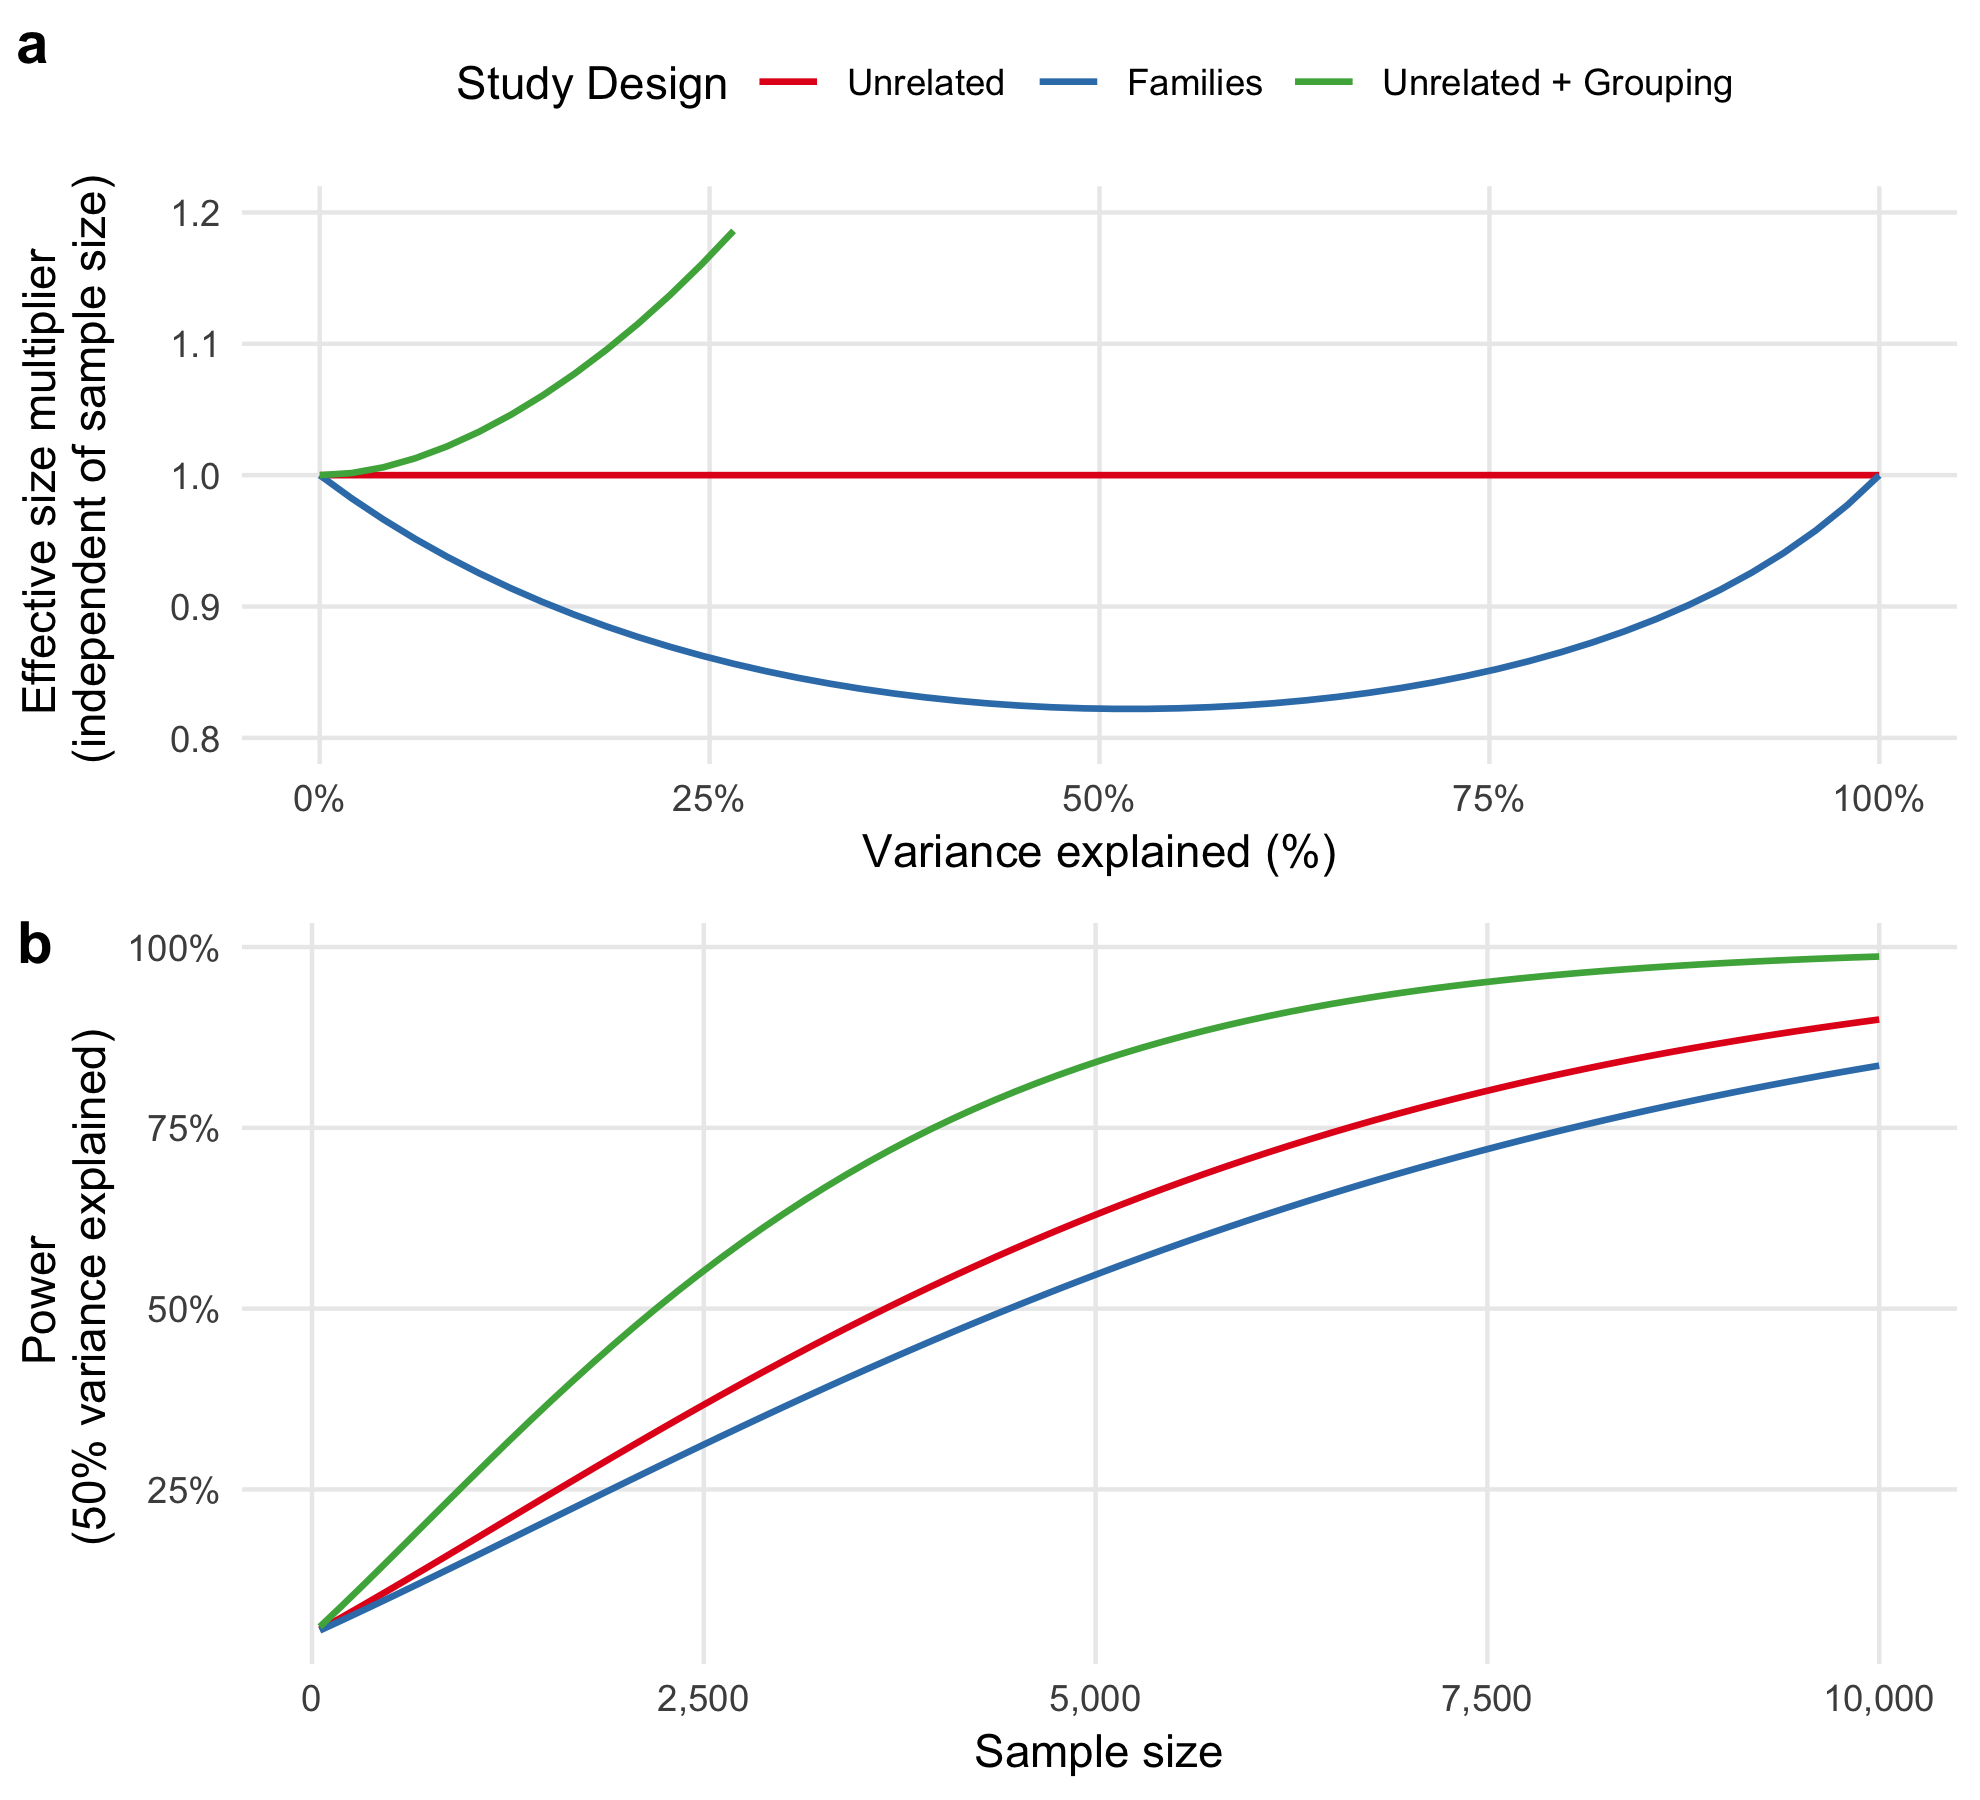
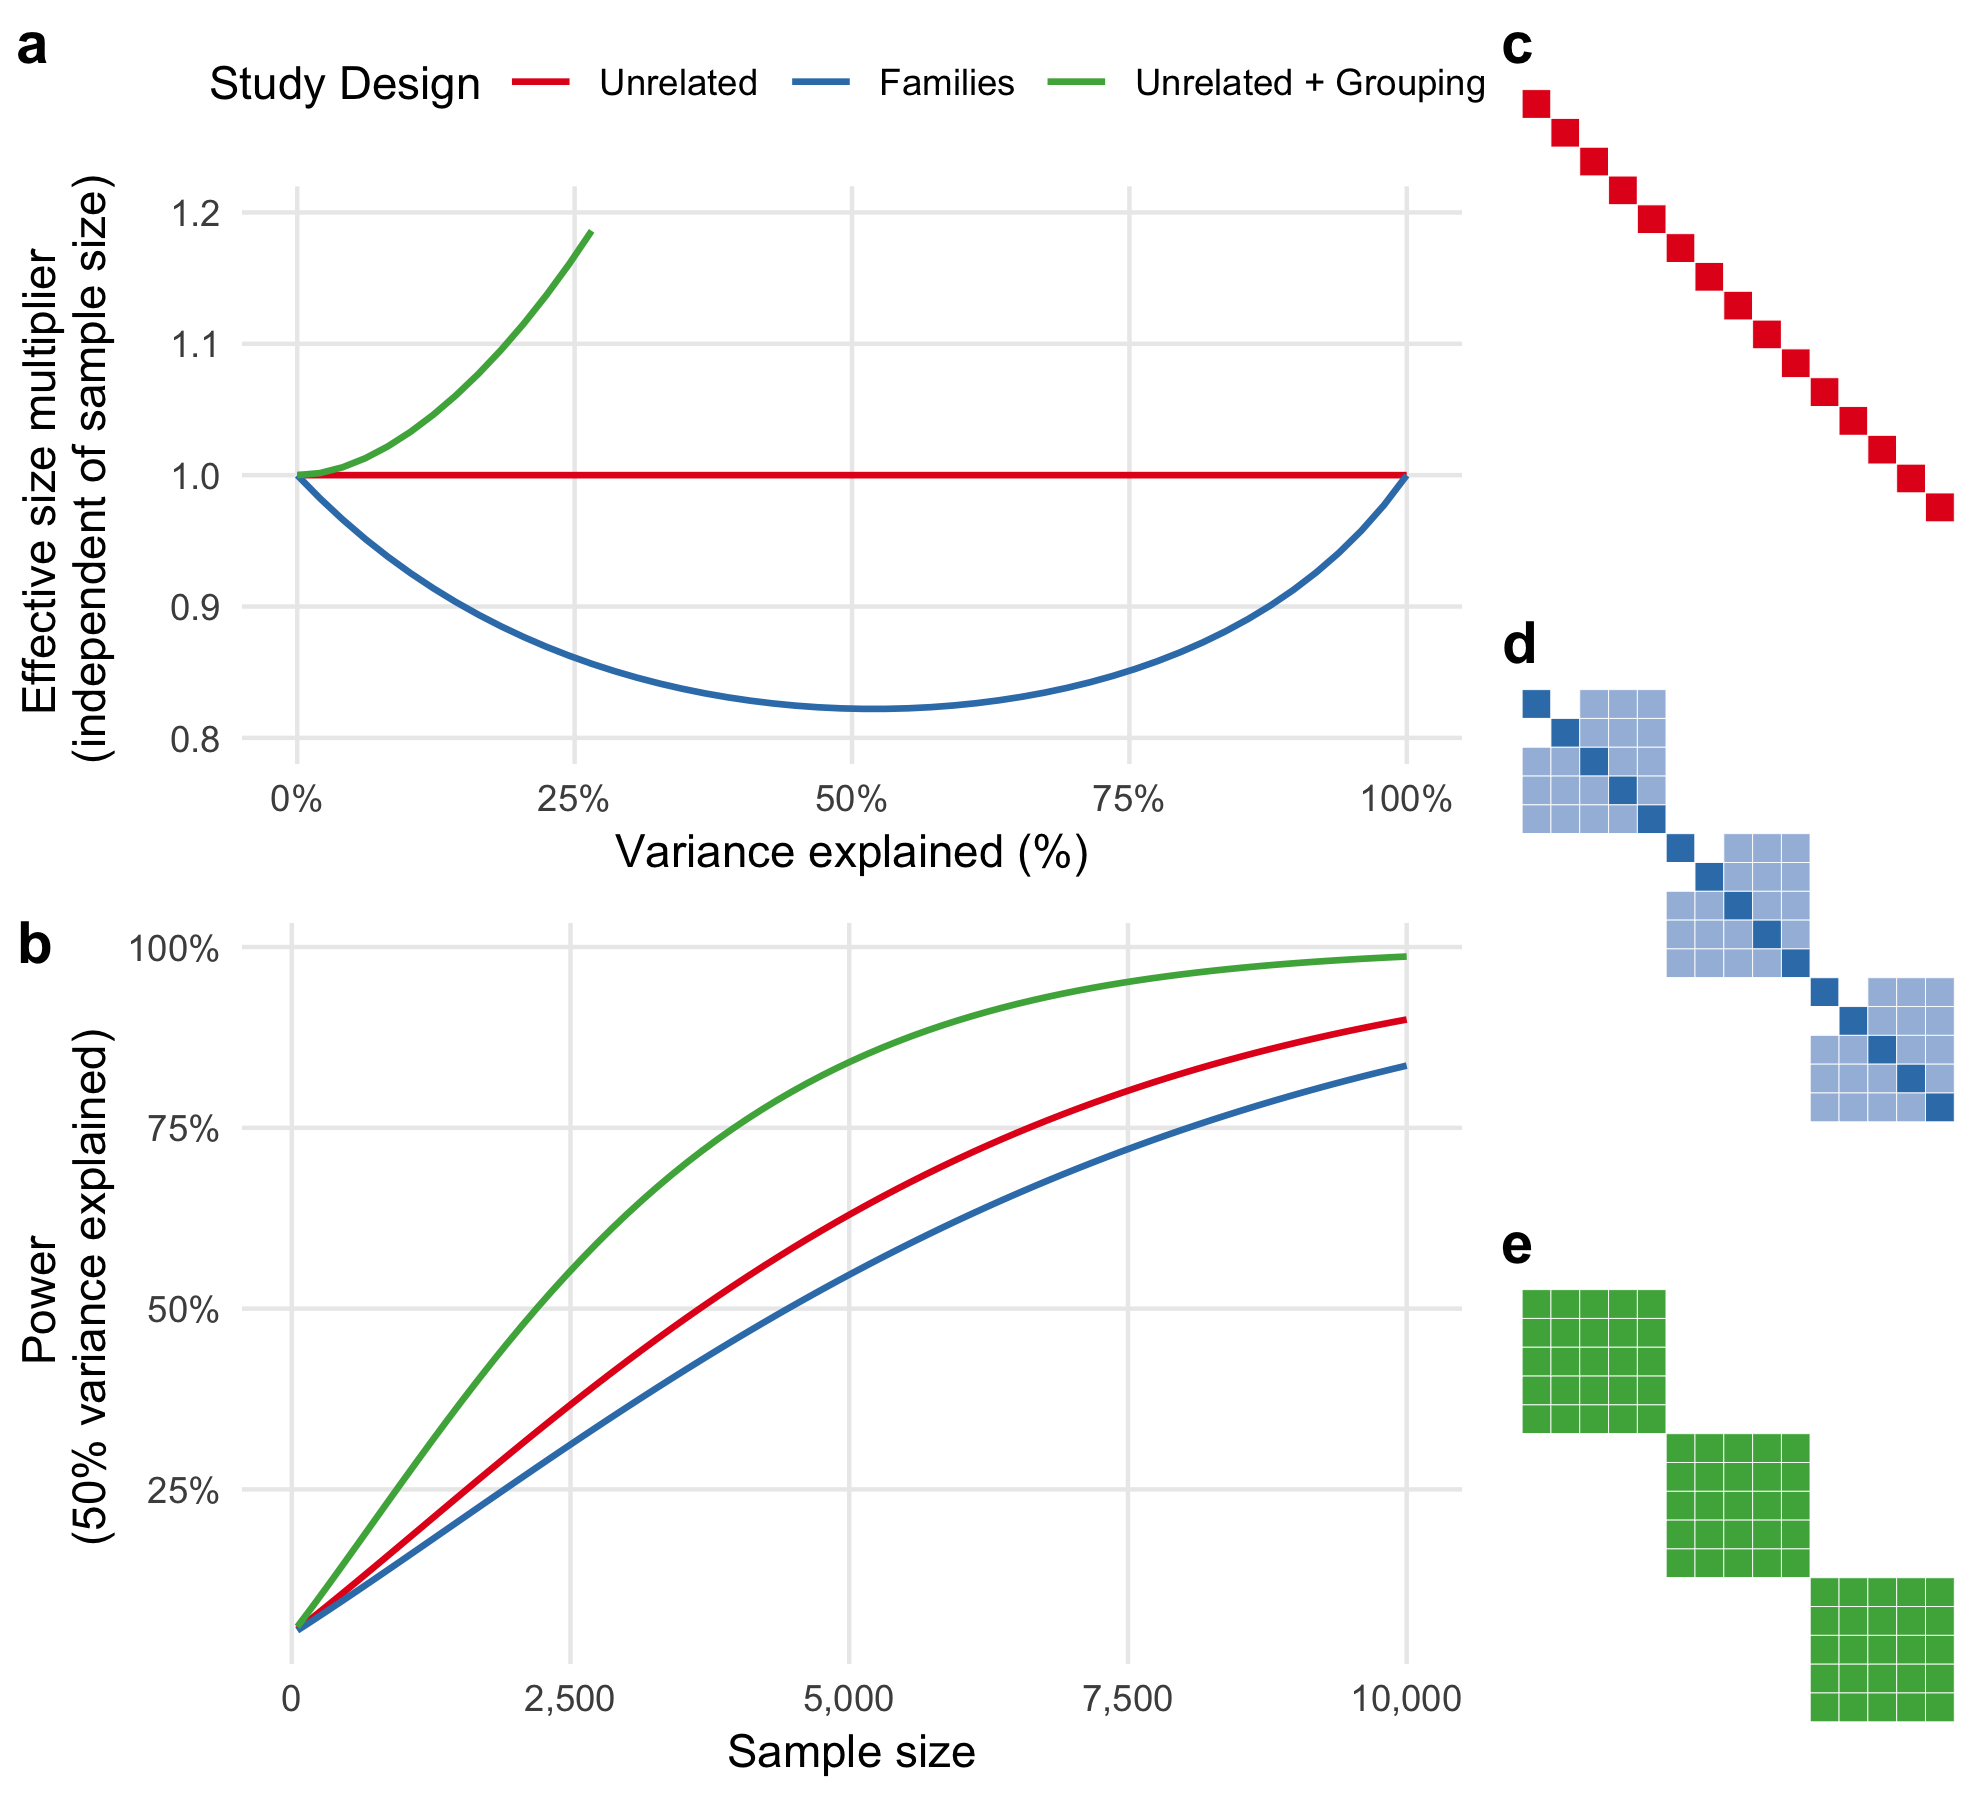
up

diff --git a/Papers/05-int-rel/bookdown/manuscript.html b/Papers/05-int-rel/bookdown/manuscript.html
@@ -25,7 +25,7 @@
 <meta name="author" content="Andrey Ziyatdinov">
 
 
-<meta name="date" content="2018-08-16">
+<meta name="date" content="2018-08-24">
 
   <meta name="viewport" content="width=device-width, initial-scale=1">
   <meta name="apple-mobile-web-app-capable" content="yes">
@@ -185,52 +185,52 @@ which was previously shown analytically only for sib-pairs in (Visscher et al., 
 <h3><span class="header-section-number">1.3.1</span> Analytical results for testing marginal genetic effect</h3>
 <table>
 <caption><span id="tab:assoc-gen">Table 1.1: </span> Analytical comparison of study designs to detect marginal genetic association.
-Study designs differ in individual relationships that shape modeling of outcome (<span class="math inline">\(y\)</span>) and distribution of genotype under association test (<span class="math inline">\(x_g\)</span>). The statistical power to detect an association depends on the non-centrality parameter <span class="math inline">\(NCP = \hat{\beta}_g^2 / var(\hat{\beta}_g)\)</span> and, thus, the formula for variance of <span class="math inline">\(\hat{\beta}_g\)</span> is reported for each study. Study designs under comparison include: unrelated individuals; unrelated individuals with a non-genetic grouping factor such as medical centers; unrelated individuals with modeling outcome conditioned on genetic effects using Genetic Relationship Matrix (GRM); related individuals in families.</caption>
+Study designs differ in individual relationships that informs modeling of outcome (<span class="math inline">\(y\)</span>) and distribution of genotype under association test (<span class="math inline">\(x_g\)</span>). The statistical power to detect an association depends on the non-centrality parameter <span class="math inline">\(NCP = \hat{\beta}_g^2 / var(\hat{\beta}_g)\)</span> and, thus, the formula for variance of <span class="math inline">\(\hat{\beta}_g\)</span> is reported for each study. Study designs under comparison include: unrelated individuals; unrelated individuals with a grouping factor such as house-hold (not related to a variable under test); unrelated individuals with modeling outcome conditioned on genetic effects using Genetic Relationship Matrix (GRM); related individuals in families. Notation: <span class="math inline">\(\tilde{x_g}\)</span>, mean-centered genotype vector <span class="math inline">\(x_g\)</span>; <span class="math inline">\(\delta_g^2 = 2 p (1 - p)\)</span>, the variance of genotype random variable with the minor allele frequency <span class="math inline">\(p\)</span>; <span class="math inline">\(K\)</span>, the additive kinship matrix for family-based study design.</caption>
 <colgroup>
-<col width="25%" />
-<col width="25%" />
-<col width="25%" />
-<col width="25%" />
+<col width="23%" />
+<col width="15%" />
+<col width="15%" />
+<col width="46%" />
 </colgroup>
 <thead>
 <tr class="header">
-<th>Study</th>
-<th>Model <span class="math inline">\(y \sim (X \beta, V)\)</span></th>
-<th>Genotype <span class="math inline">\(x_g\)</span></th>
-<th>Variance of <span class="math inline">\(\hat{\beta_g}\)</span></th>
+<th>Study design</th>
+<th><span class="math inline">\(V = covar(y)\)</span></th>
+<th><span class="math inline">\(\Sigma_g = covar(x_g)\)</span></th>
+<th><span class="math inline">\(1 / var(\hat{\beta}_g)\)</span> from <span class="math inline">\(y \sim \mathcal{N}(\mu + \beta_g x_g, V)\)</span></th>
 </tr>
 </thead>
 <tbody>
 <tr class="odd">
 <td>Unrelated</td>
-<td><span class="math inline">\(y \sim (\mu + \beta_g x_g, \sigma_r^2 I)\)</span></td>
-<td><span class="math inline">\(x_g \sim (\mu_g, \sigma_g^2 I)\)</span></td>
-<td><span class="math inline">\(\frac{\sigma_r^2}{\tilde{x_g}^T \tilde{x_g}} \approx \frac{\sigma_r^2}{\sigma_g^2 N }\)</span></td>
+<td><span class="math inline">\(\sigma_r^2 I\)</span></td>
+<td><span class="math inline">\(\delta_g^2 I\)</span></td>
+<td><span class="math inline">\(\tilde{x_g}^T \tilde{x_g} /\sigma_r^2 \approx \delta_g^2 N / \sigma_r^2\)</span></td>
 </tr>
 <tr class="even">
 <td>Unrelated + Grouping</td>
-<td><span class="math inline">\(y \sim (\mu + \beta_g x_g, \sigma_h^2 H + \sigma_r^2 I)\)</span></td>
-<td><span class="math inline">\(g \sim (\mu_g, \sigma_g^2 I)\)</span></td>
-<td><span class="math inline">\(\frac{1}{\tilde{x_g}^T V^{-1} \tilde{x_g}} \approx \frac{1}{\sigma_g^2 \mbox { } trace(V^{-1})}\)</span></td>
+<td><span class="math inline">\(\sigma_h^2 H + \sigma_r^2 I\)</span></td>
+<td><span class="math inline">\(\delta_g^2 I\)</span></td>
+<td><span class="math inline">\(\tilde{x_g}^T V^{-1} \tilde{x_g} \approx \delta_g^2 \mbox { } tr(V^{-1})\)</span></td>
 </tr>
 <tr class="odd">
 <td>Unrelated + GRM</td>
-<td><span class="math inline">\(y \sim (\mu + \beta_g x_g, \sigma_m^2 M + \sigma_r^2 I)\)</span></td>
-<td><span class="math inline">\(g \sim (\mu_g, \sigma_g^2 I)\)</span></td>
-<td><span class="math inline">\(\frac{1}{\tilde{x_g}^T V^{-1} \tilde{x_g}} \approx \frac{1}{\sigma_g^2 \mbox { } trace(V^{-1})}\)</span></td>
+<td><span class="math inline">\(\sigma_m^2 M + \sigma_r^2 I\)</span></td>
+<td><span class="math inline">\(\delta_g^2 I\)</span></td>
+<td><span class="math inline">\(\tilde{x_g}^T V^{-1} \tilde{x_g} \approx \delta_g^2 \mbox { } tr(V^{-1})\)</span></td>
 </tr>
 <tr class="even">
 <td>Families</td>
-<td><span class="math inline">\(y \sim (\mu + \beta_g x_g, \sigma_k^2 K + \sigma_r^2 I)\)</span></td>
-<td><span class="math inline">\(x_g \sim (\mu_g, \sigma_g^2 K)\)</span></td>
-<td><span class="math inline">\(\frac{1}{\tilde{x_g}^T V^{-1} \tilde{x_g}} \approx \frac{1}{\sigma_g^2 \mbox { } trace(V^{-1} K)}\)</span></td>
+<td><span class="math inline">\(\sigma_k^2 K + \sigma_r^2 I\)</span></td>
+<td><span class="math inline">\(\delta_g^2 K\)</span></td>
+<td><span class="math inline">\(\tilde{x_g}^T V^{-1} \tilde{x_g} \approx \delta_g^2 \mbox { } tr(V^{-1} K)\)</span></td>
 </tr>
 </tbody>
 </table>
 <div class="figure" style="text-align: center"><span id="fig:power-marginal"></span>
-<img src="figures/07-figure-power-marginal-two-panels.png" alt="Comparison of study designs to detect marginal genetic effect." width="75%" />
+<img src="figures/07-figure-power-marginal-two-panels.png" alt="Two study designs with a structured variance components, unrelated individuals with a non-genetic grouping factor and related individuals in families, are compared to the reference study design of unrelated individuals. The performance is evaluated to detect marginal genetic effect under the model \(y \sim \mathcal{N}(\mu + \beta_g x_g, V)\) (see also Table 1.1). To make the study designs comparable, the sum of variance components in the \(V\) matrix is equal to one. (a) The effective size multiplier, estimated as \(tr(V^{-1} \Sigma_g) / n\), depends on the variance explained. (b) When the variance explained fixed to 50% and the sample size varies, Notation: \(n\), the sample size." width="90%" />
 <p class="caption">
-Figure 1.1: Comparison of study designs to detect marginal genetic effect.
+Figure 1.1: Two study designs with a structured variance components, unrelated individuals with a non-genetic grouping factor and related individuals in families, are compared to the reference study design of unrelated individuals. The performance is evaluated to detect marginal genetic effect under the model <span class="math inline">\(y \sim \mathcal{N}(\mu + \beta_g x_g, V)\)</span> (see also Table <a href="manuscript.html#tab:assoc-gen">1.1</a>). To make the study designs comparable, the sum of variance components in the <span class="math inline">\(V\)</span> matrix is equal to one. (a) The effective size multiplier, estimated as <span class="math inline">\(tr(V^{-1} \Sigma_g) / n\)</span>, depends on the variance explained. (b) When the variance explained fixed to 50% and the sample size varies, Notation: <span class="math inline">\(n\)</span>, the sample size.
 </p>
 </div>
 

diff --git a/Papers/05-int-rel/bookdown/index.html b/Papers/05-int-rel/bookdown/index.html
@@ -25,7 +25,7 @@
 <meta name="author" content="Andrey Ziyatdinov">
 
 
-<meta name="date" content="2018-08-16">
+<meta name="date" content="2018-08-24">
 
   <meta name="viewport" content="width=device-width, initial-scale=1">
   <meta name="apple-mobile-web-app-capable" content="yes">
@@ -113,7 +113,7 @@
 <div id="header">
 <h1 class="title">GxE Fam Project</h1>
 <h4 class="author"><em>Andrey Ziyatdinov</em></h4>
-<h4 class="date"><em>2018-08-16</em></h4>
+<h4 class="date"><em>2018-08-24</em></h4>
 </div>
 <div id="preface" class="section level1 unnumbered">
 <h1>Preface</h1>

diff --git a/Papers/05-int-rel/bookdown/references.html b/Papers/05-int-rel/bookdown/references.html
@@ -25,7 +25,7 @@
 <meta name="author" content="Andrey Ziyatdinov">
 
 
-<meta name="date" content="2018-08-16">
+<meta name="date" content="2018-08-24">
 
   <meta name="viewport" content="width=device-width, initial-scale=1">
   <meta name="apple-mobile-web-app-capable" content="yes">

diff --git a/Papers/05-int-rel/bookdown/supplementary-material.html b/Papers/05-int-rel/bookdown/supplementary-material.html
@@ -25,7 +25,7 @@
 <meta name="author" content="Andrey Ziyatdinov">
 
 
-<meta name="date" content="2018-08-16">
+<meta name="date" content="2018-08-24">
 
   <meta name="viewport" content="width=device-width, initial-scale=1">
   <meta name="apple-mobile-web-app-capable" content="yes">
